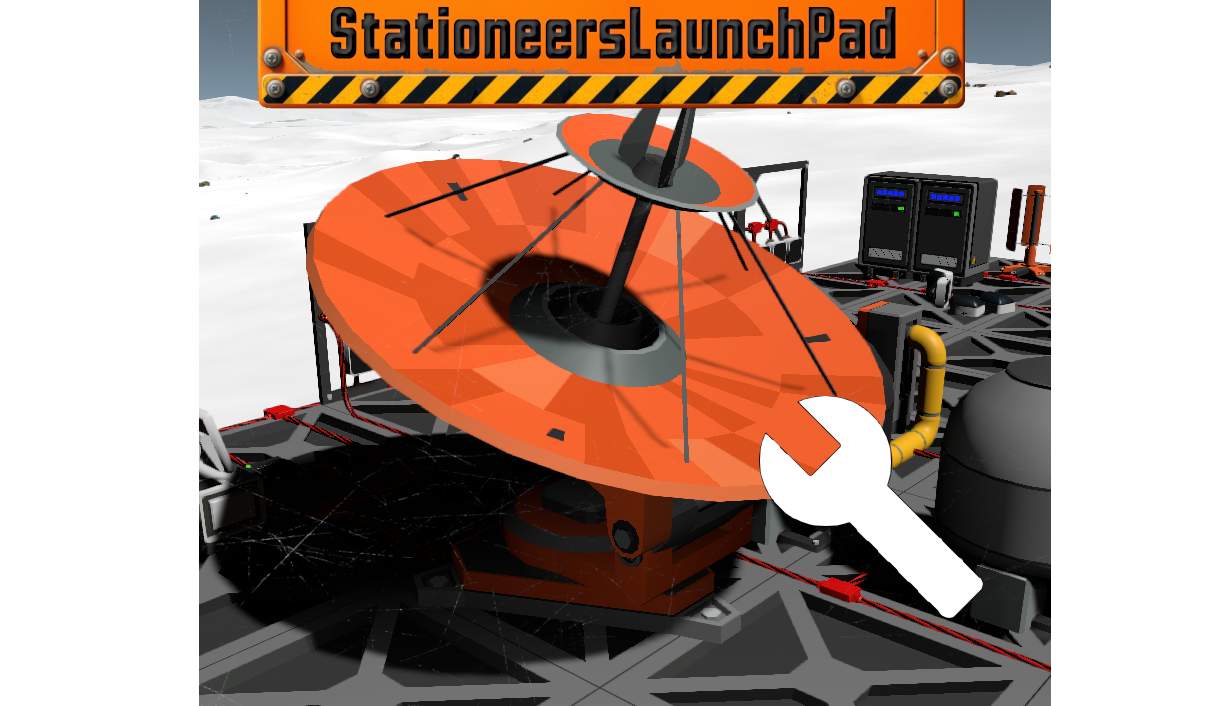
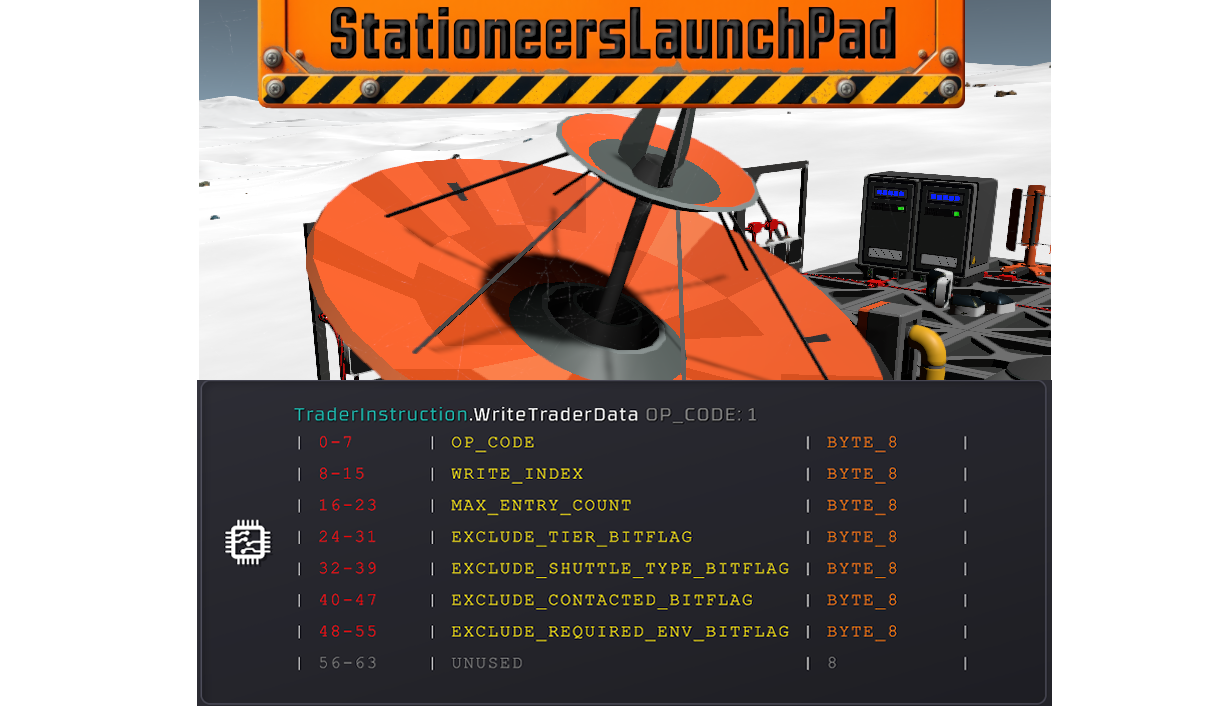
renamed project, created thumbnail and preview, wrote about, added filters for required env

Changed region(s): [[0.1542, 0.5297, 0.8636, 1.0]]

diff --git a/WriteTradeDataExtendedPatches.cs b/WriteTradeDataExtendedPatches.cs
@@ -5,7 +5,7 @@ using System.Collections.Generic;
 using System.Linq;
 using System;
 
-namespace WriteTradeDataExpanded
+namespace WriteTradeDataExtended
 {
     //[Flags]
     //enum ExcludeShuttleTypeBitFlag
@@ -38,6 +38,14 @@ namespace WriteTradeDataExpanded
     //    ExcludeContacted = 2,
     //}
 
+    //[Flags]
+    //enum ExcludeRequiredEnvBitFlag
+    //{
+    //    None = 0,
+    //    Human = 1,
+    //    Zrilian = 2,
+    //}
+
     [HarmonyPatch(typeof(MediumSatelliteDish))]
     [HarmonyPatch("WriteTraderData")]
     public class WriteTraderDataPatch
@@ -54,6 +62,7 @@ namespace WriteTradeDataExpanded
             int exclude_tier_bitflag = unpacked_bytes[3];
             int exclude_shuttle_bitflag = unpacked_bytes[4];
             int exclude_contacted_bitflag = unpacked_bytes[5];
+            int exclude_env_required_bitflag = unpacked_bytes[6];
 
 
             if (max_entries_to_write == 0) {
@@ -109,6 +118,19 @@ namespace WriteTradeDataExpanded
                     continue;
                 }
 
+                if (contact.Contact.HasEnvironmentRequirement)
+                {
+                    if (((exclude_env_required_bitflag & 1) == 1) && (contact.Contact.RequiredPadEnvironment == CharacterCustomisation.SpeciesClass.Human))
+                    {
+                        continue;
+                    }
+                    if (((exclude_env_required_bitflag & 2) == 2) && (contact.Contact.RequiredPadEnvironment == CharacterCustomisation.SpeciesClass.Zrilian))
+                    {
+                        continue;
+                    }
+                }
+
+
                 int value = contact.Contact.TradeData.TraderData.IdHash;
                 byte @byte = (byte)contact.Contact.ShuttleType;
                 byte byte2 = (byte)(contact.Contact.Contacted ? 1 : 0);
@@ -149,6 +171,7 @@ namespace WriteTradeDataExpanded
                     new LogicStack.InstructionFormat("Exclude_Tier_Bitflag", typeof(byte)),
                     new LogicStack.InstructionFormat("Exclude_Shuttle_Type_Bitflag", typeof(byte)),
                     new LogicStack.InstructionFormat("Exclude_Contacted_Bitflag", typeof(byte)),
+                    new LogicStack.InstructionFormat("Exclude_Required_Env_Bitflag", typeof(byte)),
                 });
             }
             return;

diff --git a/WriteTradeDataExtended.cs b/WriteTradeDataExtended.cs
@@ -1,0 +1,16 @@
+using HarmonyLib;
+using StationeersMods.Interface;
+
+
+namespace WriteTradeDataExtended
+{
+    class WriteTradeDataExtended : ModBehaviour
+    {
+        public override void OnLoaded(ContentHandler contentHandler)
+        {
+            Harmony harmony = new Harmony("WriteTradeDataExtended");
+            harmony.PatchAll();
+            UnityEngine.Debug.Log("Write Trade Data Extended Loaded!");
+        }
+    }
+}

diff --git a/README.md b/README.md
@@ -1,2 +1,2 @@
-Remember to update the WriteTradeDataExpanded.VS.props with your Stationeers directory!
+Remember to update the WriteTradeDataExtended.VS.props with your Stationeers directory!
 Also this repo auto copies the built files to the user mod folder so be aware of that.
